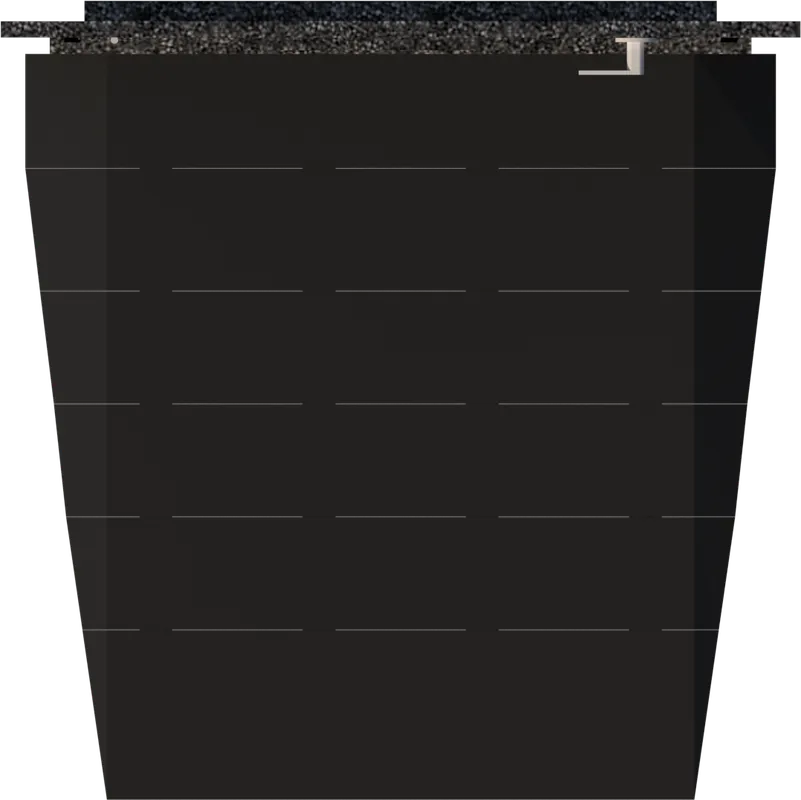
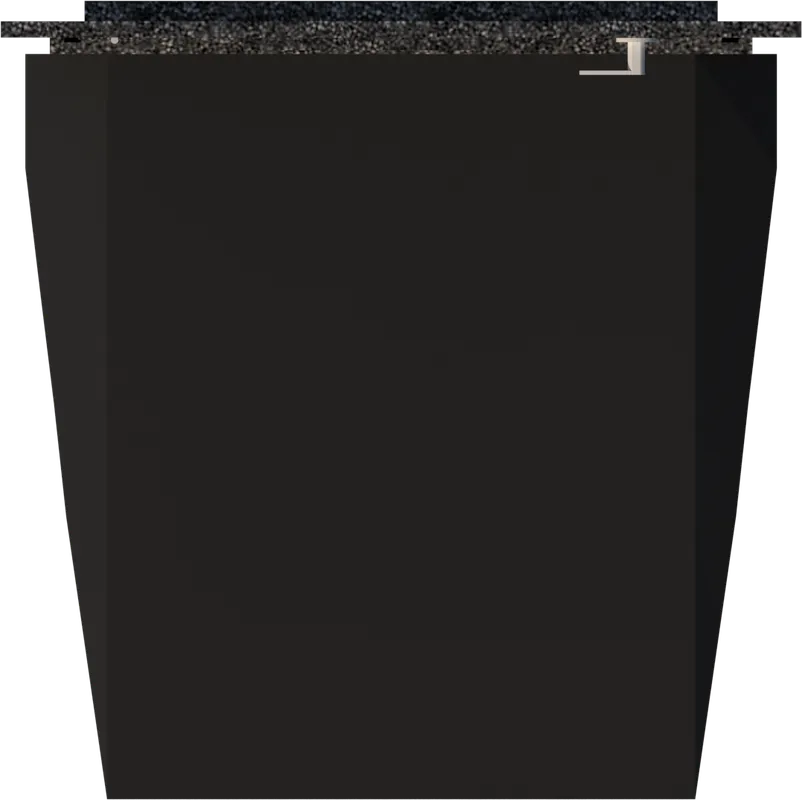
v1.99.0 — Booth art: VSS + VSS/EFS combo renders in front/top-down/side views; ramp hang-below fix that v1.97.0 silently missed

diff --git a/assets/layout-render.js b/assets/layout-render.js
@@ -332,6 +332,16 @@ function renderLayoutSvg(layout, assign) {
   // "w/ vent" dimension line. ──
   function ventDuct(side, px, py, pw, ph) {
     const { omx, omy, ox, oy, ax, ay, horiz } = edgeGeom(side, px, py, pw, ph);
+    if (VSS && EFS && ELEV_ART.ventVssEfsTop) {
+      // Benton's plan render of the whole VSS+EFS assembly — canonical
+      // orientation is a WEST wall (band right, protrusion left), rotated to
+      // whatever wall holds the vent. Band overlaps the booth wall band.
+      const vt = ELEV_ART.ventVssEfsTop;
+      const depthPx = vt.depthIn * PX, alongPx = (vt.depthIn / vt.aspect) * PX;
+      const ang = { W: 0, N: 90, E: 180, S: 270 }[side];
+      return `<g transform="rotate(${ang} ${omx} ${omy})">`
+        + `<image href="${ART_BASE + vt.file}" x="${omx - (vt.depthIn - vt.bandIn) * PX}" y="${omy - alongPx / 2}" width="${depthPx}" height="${alongPx}" preserveAspectRatio="none"/></g>`;
+    }
     const panelLen = horiz ? pw : ph;
     // four boxes have to fit when VSS is on — shrink the per-box width
     const B = Math.max(14, Math.min(panelLen * (VSS ? 0.19 : 0.30), VSS ? 32 : 44));
@@ -715,7 +725,17 @@ const ART_BASE = (typeof window !== 'undefined' && window.BB_ART_BASE)
   || (typeof global !== 'undefined' && global.BB_ART_BASE) || '/assets/booth-art/';
 const ELEV_ART = {
   SOLID:  { file: 'wall-46.webp',         compWIn: 46, aspect: 0.5687 },
-  VNT:    { file: 'wall-46-vnt.webp',     compWIn: 46, aspect: 0.5625, packOk: /\bVNT\b/i },
+  VNT:    { file: 'wall-46-vnt.webp',     compWIn: 46, aspect: 0.5663, packOk: /\bVNT\b/i },
+  // ventilation upgrades, rendered: VSS = 4 silencer ducts + hoses; the
+  // VSS+EFS combo also shows the EFS box, which sits BESIDE the 46″ wall at
+  // the floor — wallFrac says how much of the art width is the wall itself,
+  // the rest spills over the neighboring panel like the real assembly.
+  VNT_VSS:     { file: 'wall-46-vnt-vss.webp',     compWIn: 46, aspect: 0.5637, vss: true },
+  VNT_VSS_EFS: { file: 'wall-46-vnt-vss-efs.webp', compWIn: 46, aspect: 0.8063, vss: true, efs: true, wallFrac: 0.702 },
+  // top-down plan + side profiles of the VSS+EFS assembly (band ~2.2″ over
+  // the wall + 10″ EFS protrusion; along-wall length derives from aspect)
+  ventVssEfsTop:  { file: 'vent-vss-efs-top.webp', aspect: 0.2281, depthIn: 12.2, bandIn: 2.2 },
+  ventVssEfsSide: { fileL: 'vent-vss-efs-side-left.webp', fileR: 'vent-vss-efs-side-right.webp', aspect: 0.15, compHIn: 80.7, protIn: 10 },
   WDO:    { file: 'wall-46-wdo3236.webp', compWIn: 46, aspect: 0.5700, packOk: /WDO\s*3236\b/i },
   // door: dedicated art per hinge — fileR is the mirrored render with the
   // logo plate re-pasted unmirrored (a blind flip would mirror the text)
@@ -755,6 +775,10 @@ function elevArtFor(kind, line, layout) {
   const pack = String(line.pack || '');
   if (kind === 'DRFRM' && /^WA\s+STDDRFRM/i.test(pack))
     return (layout && layout.ramp) ? ELEV_ART.DRFRM_WA_RAMP : ELEV_ART.DRFRM_WA;
+  if (kind === 'VNT' && layout && layout.vss && !layout.roofVent) {
+    if (!ELEV_ART.VNT.packOk.test(pack)) return null;
+    return layout.efs ? ELEV_ART.VNT_VSS_EFS : ELEV_ART.VNT_VSS;
+  }
   if (kind === 'WDO') {
     const m = pack.match(/WDO\s*(\d{2})(\d{2})/i);
     if (!m) return null;
@@ -879,7 +903,8 @@ function renderElevationSvg(layout, assign, facing) {
 
   // per-panel features, drawn after all strips + battens. hasArt = the slot
   // is covered by a component render — skip whatever the photo already shows.
-  function elevFeatures(kind, line, sx, w, hasArt) {
+  function elevFeatures(kind, line, sx, w, art) {
+    const hasArt = !!art;
     const cx2 = sx + w / 2;
     let g = '';
     if (kind === 'DRFRM' && line) {
@@ -920,14 +945,14 @@ function renderElevationSvg(layout, assign, facing) {
         g += ductAt(sx + w * 0.26, 34);
         g += ductAt(sx + w * 0.72, 76);
       }
-      if (VSS) {
+      if (VSS && !(art && art.vss)) {
         // VSS = a second silencer duct beside each, hose-connected (catalog)
         const ix2 = sx + w * 0.26 + dw + 3, ex2 = sx + w * 0.72 - dw - 3;
         g += ductAt(ix2, 34) + ductAt(ex2, 76);
         g += `<path d="M ${sx + w * 0.26 + dw / 2} ${iy(34) + 3} Q ${(sx + w * 0.26 + ix2) / 2 + dw / 2} ${iy(34) - 4} ${ix2 - dw / 2 + 1} ${iy(34) + 3}" fill="none" stroke="#0d0e11" stroke-width="2" stroke-linecap="round"/>`;
         g += `<path d="M ${sx + w * 0.72 - dw / 2} ${iy(76) + dh - 3} Q ${(sx + w * 0.72 + ex2) / 2 - dw / 2} ${iy(76) + dh + 4} ${ex2 + dw / 2 - 1} ${iy(76) + dh - 3}" fill="none" stroke="#0d0e11" stroke-width="2" stroke-linecap="round"/>`;
       }
-      if (EFS) {
+      if (EFS && !(art && art.efs)) {
         // EFS wraps the fan in a floor-level silencer box (10″ tall footprint)
         g += `<rect x="${sx + w * 0.72 - 8 * PX2}" y="${iy(13)}" width="${16 * PX2}" height="${13 * PX2 - 1}" rx="2.5" fill="#2c2d33" stroke="#0d0e11" stroke-width="1"/>`;
         g += `<rect x="${sx + w * 0.72 - 8 * PX2 + 2.5}" y="${iy(13) + 2.5}" width="${16 * PX2 - 5}" height="${13 * PX2 - 6}" rx="2" fill="none" stroke="#4a4d55" stroke-width="0.8"/>`;
@@ -965,11 +990,19 @@ function renderElevationSvg(layout, assign, facing) {
       if (mirrored) hingeRight = !hingeRight;
       if (hingeRight) href = ART_BASE + art.fileR;
     }
+    // the WA-with-ramp render is genuinely TALLER than a wall — the ramp
+    // foot intentionally hangs below the frame bottom, so scale by the art's
+    // real proportion instead of squeezing it into the wall height
+    const WALL_HIN = 80.7;
+    const hPx = (kind === 'DRFRM' && artHIn > WALL_HIN + 0.5) ? Hp * (artHIn / WALL_HIN) : Hp;
     // SketchUp exports glass as TRANSPARENT pixels — tint the slot behind the
     // art so windows read as glass instead of holes into the dark carpet
     const under = (kind === 'WDO' || kind === 'DRFRM')
       ? `<rect x="${sx}" y="${y0}" width="${wPx}" height="${Hp}" fill="#bdd9ef"/>` : '';
-    return under + `<image href="${href}" x="${sx}" y="${y0}" width="${wPx}" height="${Hp}" preserveAspectRatio="none"/>`;
+    // wallFrac < 1: the art is wider than the wall (the EFS box sits beside
+    // it on the floor) — left-anchor and let the extra spill over
+    const drawW = art.wallFrac ? wPx / art.wallFrac : wPx;
+    return under + `<image href="${href}" x="${sx}" y="${y0}" width="${drawW}" height="${hPx}" preserveAspectRatio="none"/>`;
   }
 
   let off = 0, feats = '';
@@ -982,7 +1015,7 @@ function renderElevationSvg(layout, assign, facing) {
     if (art) s += artPanel(art, kind, line, x0 + off, w, effSize(slot));
     // vector details: everything when there's no art; with VNT art the photo
     // already shows the ducts/hose/fan, so only the VSS/EFS extras draw
-    if (!art || kind === 'VNT') feats += elevFeatures(kind, line, x0 + off, w, !!art);
+    if (!art || kind === 'VNT') feats += elevFeatures(kind, line, x0 + off, w, art);
     off += w;
   }
   // roof cap + floor platform — the SAME carpet as the wall renders (the old
@@ -1023,6 +1056,14 @@ function renderElevationSvg(layout, assign, facing) {
   // and peeked out from behind it.
   function ventSideProfile(atLeft) {
     let g = '';
+    if (VSS && EFS && ELEV_ART.ventVssEfsSide) {
+      // the VSS+EFS side renders carry their own EFS box — one image does it
+      const v2 = ELEV_ART.ventVssEfsSide;
+      const wIn2 = v2.compHIn * v2.aspect;
+      const wPx2 = wIn2 * PX2;
+      const vx2 = atLeft ? x0 - v2.protIn * PX2 : x0 + Wp + v2.protIn * PX2 - wPx2;
+      return `<image href="${ART_BASE + (atLeft ? v2.fileL : v2.fileR)}" x="${vx2}" y="${y0}" width="${wPx2}" height="${Hp}" preserveAspectRatio="none"/>`;
+    }
     const vs = ELEV_ART.ventSide;
     if (vs) {
       const wIn = vs.compHIn * (atLeft ? vs.aspectL : vs.aspectR);

diff --git a/bot/specsheet-work/import-art.py b/bot/specsheet-work/import-art.py
@@ -44,10 +44,16 @@ MAP = {
     # variant shows the ramp foot at the door sill
     'Components_WADoorLeftNoRamp.png':     'door-wa-left.webp',
     'Components_WADoorLeftWithRamp.png':   'door-wa-ramp-left.webp',
-    # ADA ramp: top-down plan (Components.png is the newer export with the
-    # tread seams) + side profile. The ramp protrudes 3′ 9⅝″ (45.625″).
-    'Components.png':                      'ramp-top.webp',
+    # ADA ramp: top-down plan + side profile. Protrudes 3′ 9⅝″ (45.625″).
+    'Components_RampTopDown.png':          'ramp-top.webp',
     'Components_RampSideView.png':         'ramp-side.webp',
+    # ventilation upgrades: VSS (4 silencer ducts) and VSS+EFS combo —
+    # front view, top-down plan and both side profiles
+    'Components_46VntWallVSS.png':         'wall-46-vnt-vss.webp',
+    'Components_46VNTWallVSSandEFS.png':   'wall-46-vnt-vss-efs.webp',
+    'Components_VSSandEFS Top Down.png':   'vent-vss-efs-top.webp',
+    'Components_VSSandEFSLeftSide.png':    'vent-vss-efs-side-left.webp',
+    'Components_VSSandEFSRightSide.png':   'vent-vss-efs-side-right.webp',
 }
 # the ramp wedge is too thin for the stray-line filter — plain bbox crop
 RAW_BBOX = {'ramp-top.webp', 'ramp-side.webp'}

diff --git a/DEVLOG.md b/DEVLOG.md
@@ -975,6 +975,7 @@ Source of truth for in-app changelog is `templates/changelog.js`. This table is 
 | Version | Date       | Summary |
 |---------|------------|---------|
 | 1.99.0  | 2026-06-10 | **Marketing: 📡 Radar — server-side alert scans + daily scheduler.** New `marketing/alerts.js`: 7 checks, all pure SQL over already-synced tables (no API spend) — SERP pair-wise rank drop ≥3 / fell out of top-10, new competitor ad on a brand term, AI Overview uncited while we rank top-10 (or citation lost), featured snippet lost; ads 7d impression-weighted budget-lost ≥20% after a <10% baseline (w/ $100 spend floor), $300+/28d spend with zero conversions; GSC commercial-query clicks −40% (14d vs prior 14d, informational queries filtered). Findings dedup on `(type, key)` into new `marketing_alerts` table (key carries a date/week component where re-fire is intended); one bell summary per scan (`MARKETING_ALERT_OWNERS`, default Gabe). Scheduler arms on the first marketing request (12h tick, scan when last >20h old — survives restarts, zero quote-server.js changes); opt-in `SERP_AUTO_SYNC_DAYS=7` adds a weekly stale-keyword SERP refresh (ETL 7d cache meters cost; default off). Dashboard: 📡 Radar tab w/ NEW-count badge on the tab button, severity-sorted feed (Active/Dismissed toggle), mark-all-seen + per-row dismiss, free Scan-now. Endpoints: GET `/api/marketing/alerts`, POST `…/alerts/ack`, `…/alerts/dismiss`, sync report `alerts`. MINOR. |
+| 1.100.0 | 2026-06-10 | **Booth art: VSS/EFS renders in all views + ramp-hang fix that v1.97.0 missed.** Imports: `wall-46-vnt-vss[-efs].webp` (front; combo is 0.8063 aspect — EFS sits BESIDE the wall, `wallFrac:0.702` left-anchors + spills over the neighbor), `vent-vss-efs-top.webp` (plan, canonical W-wall band-right/protrude-left, rotated to the vent wall, band 2.2" overlaps + 10" protrusion), `vent-vss-efs-side-l/r.webp`. Selection: `elevArtFor(VNT)` picks plain/VSS/VSS+EFS by layout flags; `elevFeatures` takes the ART OBJECT and only draws vector VSS/EFS extras the art lacks; `ventSideProfile`/`ventDuct` early-return to combo art when both flags on (vector fallbacks remain for VSS-only/EFS-only sides + top-down). `Components.png` was deleted by Benton -> ramp-top re-points at `Components_RampTopDown.png`. **Honesty note:** v1.97.0's 'ramp foot hangs below frame' silently no-opped (python replace missed) — landed for real now (`WALL_HIN`/`hPx` in artPanel); patch scripts now ASSERT on every replace target. bbtest 17/17. MINOR. |
 | 1.98.0  | 2026-06-10 | **Layouts: vent-set audit (13 models fixed) + single booth picker + drag badges.** (1) Benton flagged 7272/9696 short on vents -> audited ALL 25 vs `base-bom.json` F01: 13 models one vent short; spec p3 confirms the missing set sits on the EAST wall (north module) on every one -> `gen-layouts.js` RAW E0 'S'->'V', regenerated. ALSO: gen-layouts' normWall was span-SCALING sizes (40->41.67, which `realSize` would snap to the 43 family!) and had never absorbed the v1.85.2 centered-smalls hand-fix — RAW rebuilt verbatim from HEAD JSON + normWall keeps TRUE sizes now (validation tolerance 0.5->6); regen verified = HEAD + exactly 13 kind changes; all 25 match BOM F01. Affects PL placement preferences too (multi-vent BOMs can seat on E). (2) Picker: pkgOptions+sizeOptions selects merged into one `pickerOptions()` w/ optgroups (values pkg:/mdl:, `setPick`); dead sizeOptions removed. (3) Drag affordance: pulsing orange ✥ badges on DRFRM/VNT/WDO/CBL panels in the top-down (`.ld-badge`, hidden while dragging), hint copy updated. bbtest 17/17. MINOR. |
 | 1.97.0  | 2026-06-10 | **Booth Builder: package presets + art preload + ramp hang fix.** (1) `PACKAGES` table translated from quote-builder.html `BOOTH_PRESETS` (19 named packages -> base model+variant, option flags, window heights; ADA/WA SKUs -> wideDoor, WA RAMP -> ramp, SL/VSS/EFS/MJP/desk/traps/AP -> toggles; unmapped SKUs like HEPA/EFP ride via the package name). `applyPackage()` resets state, applies flags, `rebuild(true)`, then seats windows post-WA-pair. Picker = select atop step 1 ('Custom build' default); `state.pkg` -> summary 'Package: X' + payload `pk` (server `safe.pk` charset-validated); `setModel` clears pkg. NEW summary-only AP toggle (`ap`/`ac`). (2) `preloadElevArt()` warms all 18 renders at boot (Benton: images slow to load). (3) WA-ramp door art draws at TRUE height (aspect 0.5975 -> ~82" vs 80.7" wall) so the ramp foot hangs below the frame bottom per the render — was squeezed into Hp. bbtest 17/17. MINOR. |
 | 1.96.0  | 2026-06-10 | **Booth art: WA door renders + ADA ramp option w/ dimensioned 45.625" protrusion.** Imports: `door-wa[-ramp]-left/right.webp` (49" frame; right variants logo-patched at per-art boxes via generalized `DOORS` map), `ramp-top.webp` (plan, from the newer `Components.png` export w/ tread seams), `ramp-side.webp` (wedge; ramp files use RAW bbox crop — wedge too thin for the stray-line filter). Renderer: `elevArtFor` routes `WA STDDRFRM` packs to WA art (`layout.ramp` picks the with-ramp variant); top-down draws the ramp plan rotated to the door wall (sill overlaps ~2", leaf swings over it), margins grow, and the protrusion dims are GENERALIZED — `protOf(side)` = max(vent 5.5/EFS 10, ramp 45.625), label composes 'w/ vent + ramp' etc; elevation gets `rampSideProfile` (mirrored for right side) + same dim treatment. Page: 'Access ramp' toggle (disabled until WA door on; `rp` key end-to-end incl. server `safe`), summary line 'extends 3' 9-5/8"'. bbtest 17/17. MINOR. |